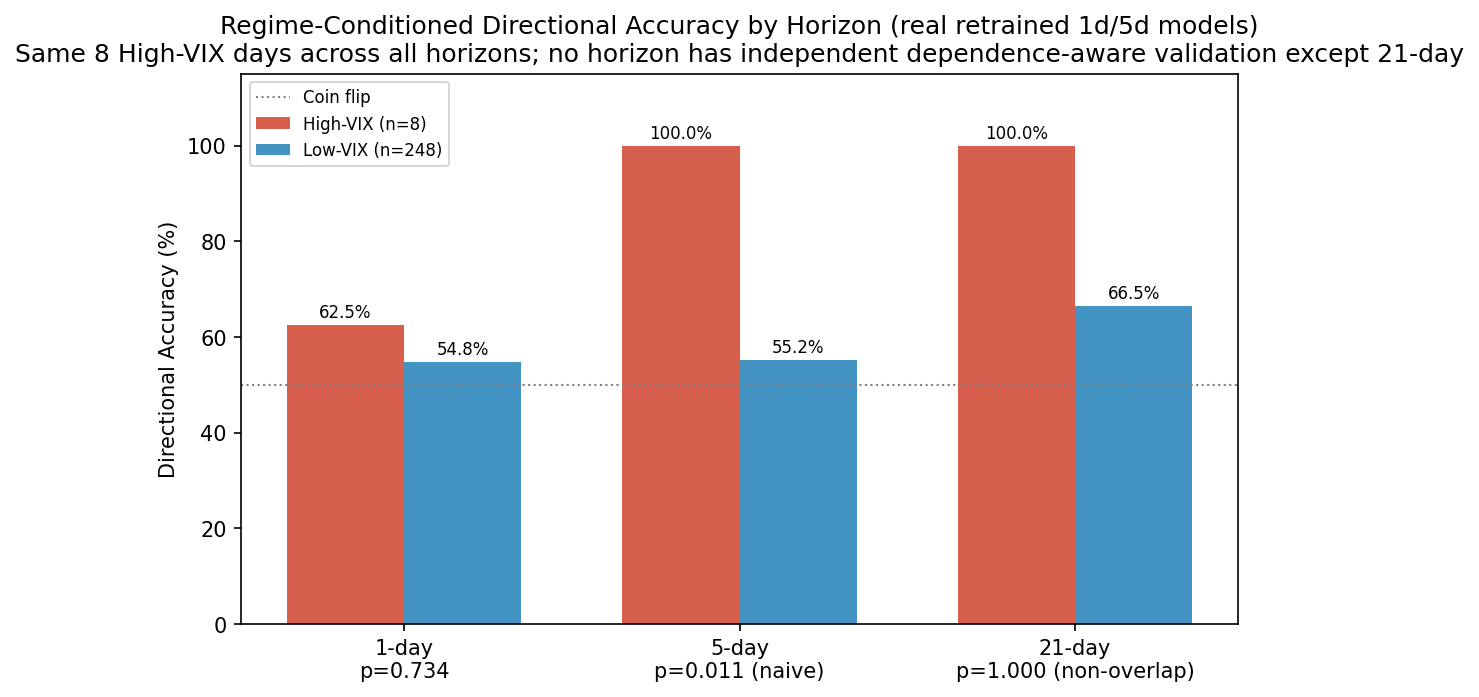
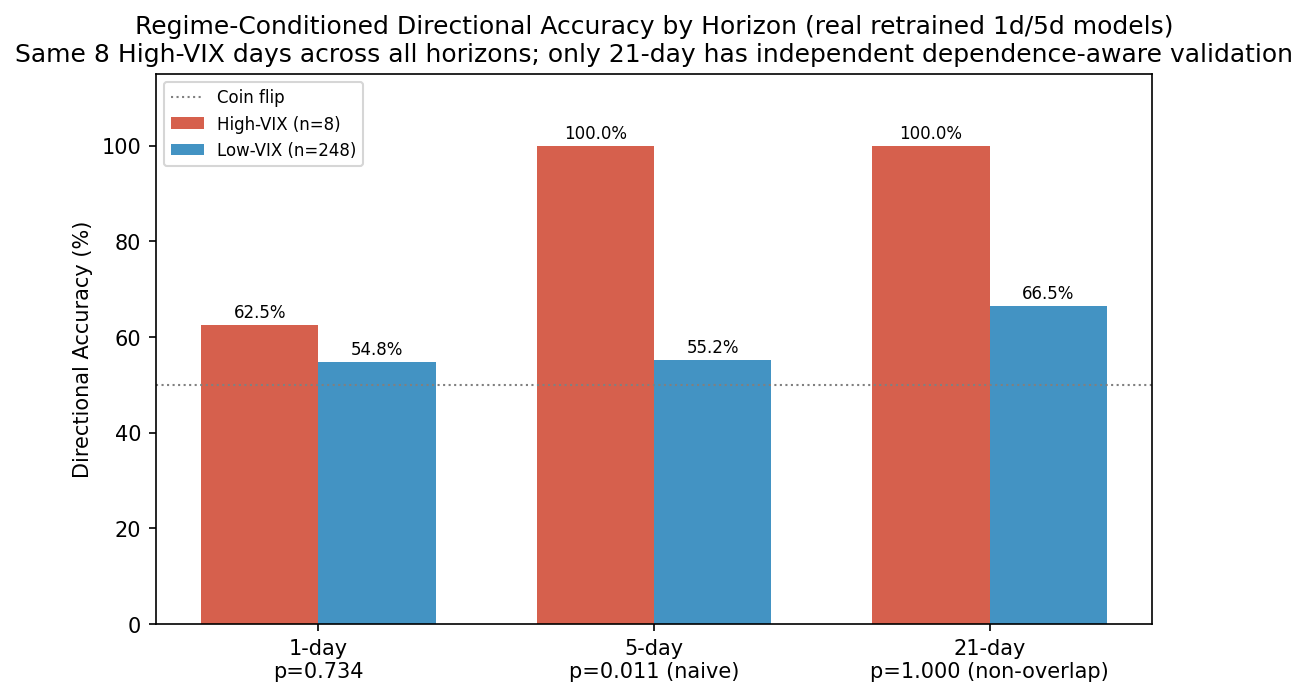
Fix NB-R12: load real 1d/5d/21d results dynamically from NB-R13/NB-R04 output instead of stale hardcoded placeholders; verified end-to-end reproduction of manuscript figures

diff --git a/notebooks/README.md b/notebooks/README.md
@@ -29,6 +29,10 @@ Notebooks 01–10 correspond to the first major-revision round; 11–13 were add
 second round in direct response to reviewer comments (see `Manuscript/` for the full
 review correspondence).
 
+**Note on run order:** NB-R12 depends on output from NB-R13 (it loads the real
+1-day/5-day results NB-R13 produces). Despite the numbering, run NB-R13 before
+NB-R12, or before rerunning NB-R12 if NB-R13's output files are missing.
+
 ## Reproducing the pipeline
 
 1. Install dependencies from `requirements.txt`, plus `arch`, `optuna`, `catboost`,
@@ -53,9 +57,11 @@ ultimately not used).
 
 - Every notebook's markdown documents its exact inputs, outputs, and (where
   relevant) the specific reviewer concern it addresses.
-- NB-R12 has one known, explicitly documented limitation: two of its figures use
-  placeholder 1-day/5-day values that predate NB-R13's retraining. See NB-R12's
-  markdown for the exact fix needed if you rerun it after NB-R13.
+- NB-R12 depends on NB-R13's output: its regime-accuracy and AUC figures load the
+  1-day/5-day results directly from `results/horizon_1d_5d_results_CORRECTED.csv`
+  and `data/processed/test_predictions_{1d,5d}.csv` rather than using hardcoded
+  values, so run NB-R13 before NB-R12 (or before rerunning NB-R12) if those files
+  don't yet exist.
 - Optuna trial counts differ between the 21-day model (NB-R03: 100 trials/model)
   and the 1-day/5-day models (NB-R13: 25 trials/model) for compute-time reasons;
   this is stated in both notebooks and in the manuscript.
